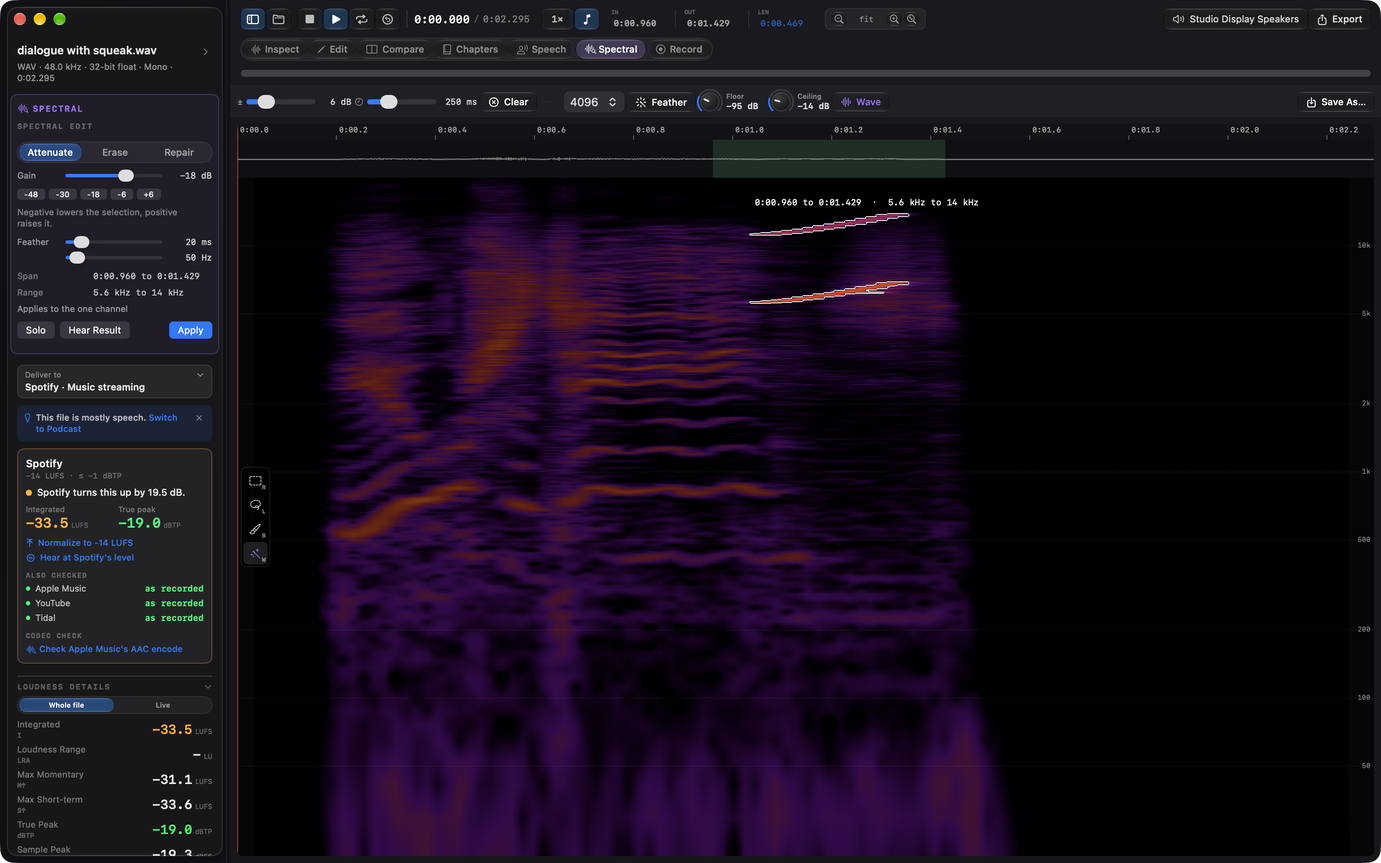
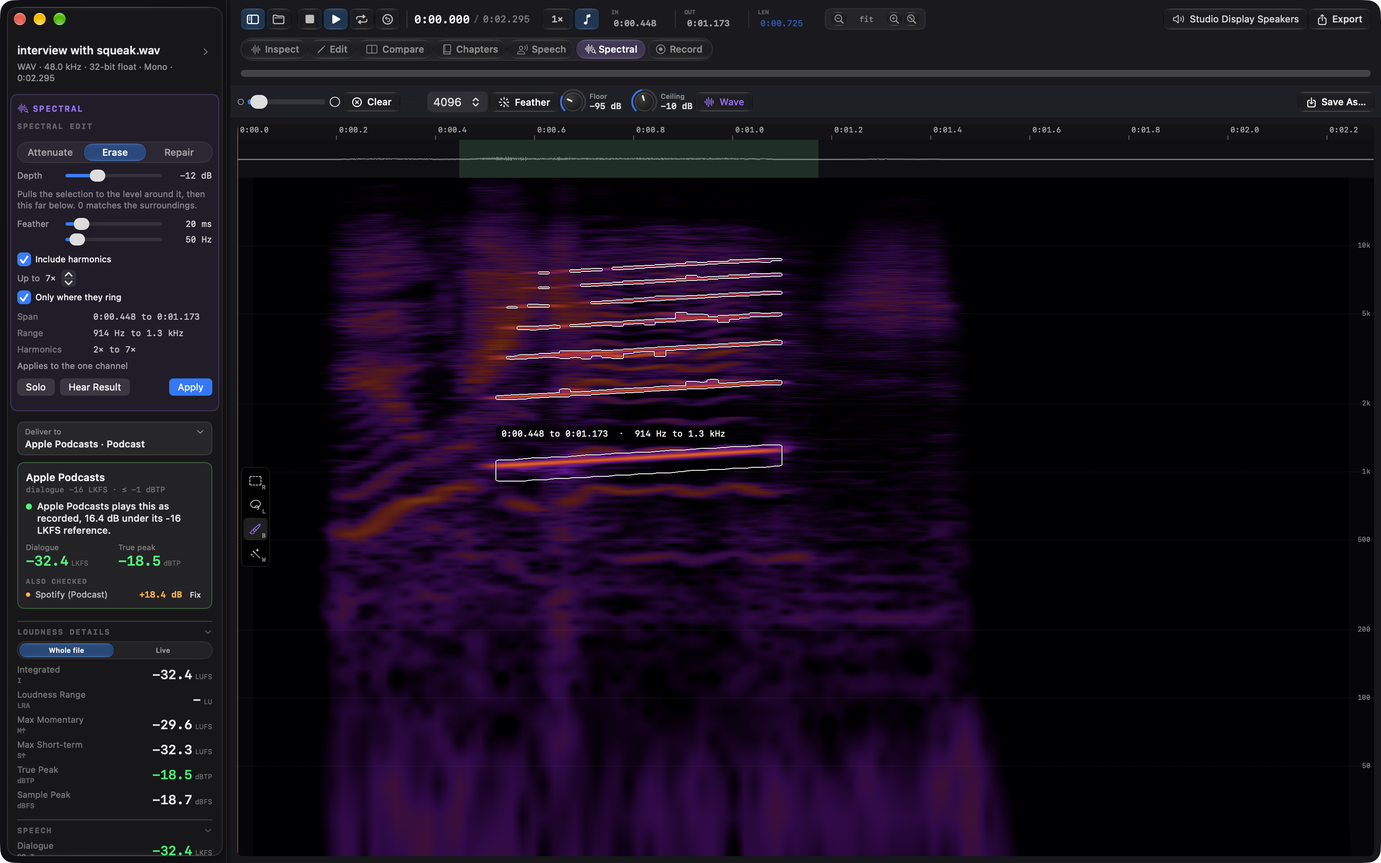
Specula 2.0: Include harmonics up front on the site
The repair page leads with it: a harmonics badge and hero line, a new
Include harmonics section under the hero shot, and a before and after
slider of an Erase with harmonics (specula-harmonics-before/after), which
replaces the old hand-drawn one (specula-repair-before/after removed, used
nowhere else). New captures, 2026-10-04, capture copy at Specula 84cc35b, a
1600 x 1000 window on factory settings with the spectrogram at -95 / -10 dB:
an interview with a chair squeak gliding from 1.05 to 1.25 kHz with its 2nd
to 7th harmonics (Specula tools/capture/scenarios/make_harmonic_squeak.py),
one brush stroke on its lowest line, Include harmonics, Up to 7x, Erase.
specula-spectral-task and specula-part-spectral refreshed (the panel now
shows Include harmonics); the product page's Spectral block, tile, spec row
and hero, the guide (two figures, from tools/mirror_guide.py), the FAQ, the
editing page, the home feed row and the 2.0 appcast draft mention it, and
the release notes list it second.

Claude-Session: https://claude.ai/code/session_0188d7MUJdfutGY8Bn3ca4tM

diff --git a/specula/repair.html b/specula/repair.html
@@ -3,16 +3,16 @@
 <head>
     <meta charset="UTF-8">
     <meta name="viewport" content="width=device-width, initial-scale=1.0">
-    <title>Specula for Spectral Repair: select the blemish on the spectrogram, macOS</title>
+    <title>Specula for Spectral Repair: select the blemish and its harmonics on the spectrogram, macOS</title>
     <link rel="canonical" href="https://headroomstudio.dev/specula/repair.html">
-    <meta name="description" content="Select a blemish on a full-resolution spectrogram with a rectangle, lasso, brush or wand, then attenuate, erase or repair just that region. Included in Specula's one-time purchase, no separate spectral-repair tier, no subscription.">
+    <meta name="description" content="Select a blemish on a full-resolution spectrogram with a rectangle, lasso, brush or wand, a squeak's or a whistle's harmonics included, then attenuate, erase or repair just that region. Included in Specula's one-time purchase, no separate spectral-repair tier, no subscription.">
     <meta property="og:title" content="Specula for Spectral Repair">
-    <meta property="og:description" content="Select the blemish on a spectrogram and attenuate, erase or repair it, leaving everything else bit for bit. Included in Specula's one-time purchase.">
+    <meta property="og:description" content="Select the blemish on a spectrogram, its harmonics included, and attenuate, erase or repair it, leaving everything else bit for bit. Included in Specula's one-time purchase.">
     <meta property="og:image" content="https://headroomstudio.dev/specula/og.png">
     <meta property="og:type" content="website">
     <meta name="twitter:card" content="summary_large_image">
     <meta name="twitter:title" content="Specula for Spectral Repair">
-    <meta name="twitter:description" content="Select a blemish on a spectrogram with a rectangle, lasso, brush or wand, then attenuate, erase or repair just that region. One-time purchase, no subscription.">
+    <meta name="twitter:description" content="Select a blemish on a spectrogram with a rectangle, lasso, brush or wand, its harmonics included, then attenuate, erase or repair just that region. One-time purchase, no subscription.">
     <meta name="twitter:image" content="https://headroomstudio.dev/specula/og.png">
     <link rel="icon" href="/favicon.ico" sizes="48x48">
     <link rel="icon" href="/headroom-mark.svg" type="image/svg+xml">
@@ -26,7 +26,7 @@
         "@context": "https://schema.org",
         "@type": "WebPage",
         "name": "Specula for Spectral Repair",
-        "description": "The Spectral task: select a blemish in time and frequency on a full-resolution, zoomable spectrogram with a rectangle, lasso, brush or wand, then attenuate, erase or repair just that selection. Every selected cell gets the full edit, the feather rolls off outside the selection, and everything else stays bit for bit. Spectral edits join the edit history.",
+        "description": "The Spectral task: select a blemish in time and frequency on a full-resolution, zoomable spectrogram with a rectangle, lasso, brush or wand, then attenuate, erase or repair just that selection. Include harmonics adds the overtones of a squeak, a whistle or hum to the selection, column by column, where they ring. Every selected cell gets the full edit, the feather rolls off outside the selection, and everything else stays bit for bit. Spectral edits join the edit history.",
         "url": "https://headroomstudio.dev/specula/repair.html",
         "isPartOf": { "@type": "WebSite", "name": "Headroom Studio", "url": "https://headroomstudio.dev/" },
         "about": {
@@ -70,11 +70,12 @@
             <p class="eyebrow">Workflow · Spectral repair</p>
             <h1 class="display">Take the cough out. Leave the chord.</h1>
             <p class="app-hero__desc">
-                A take is otherwise good except for one moment: a cough, a click, a chair squeak, a bite of hum. Re-recording is not always possible: a client session that is over, a location interview, an archival transfer with nothing left to record from. The Spectral task does that job, select the blemish on a spectrogram and fix just that, inside the analyzer that checks the numbers.
+                A take is otherwise good except for one moment: a cough, a click, a chair squeak, a bite of hum. Re-recording is not always possible: a client session that is over, a location interview, an archival transfer with nothing left to record from. The Spectral task does that job, select the blemish on a spectrogram and fix just that, inside the analyzer that checks the numbers, and Include harmonics adds a squeak's or a whistle's overtones to the selection.
             </p>
             <div class="app-hero__badges">
                 <span class="badge badge--macos">macOS</span>
                 <span class="badge">Spectral repair</span>
+                <span class="badge badge--accent">Include harmonics</span>
                 <span class="badge">Attenuate / Erase / Repair</span>
                 <span class="badge">Lasso · Brush · Wand</span>
                 <span class="badge">One-time purchase</span>
@@ -101,9 +102,41 @@
     <!-- Hero shot -->
     <section class="shots shots--tight">
         <figure class="shot">
-            <picture><source srcset="specula-spectral-task.webp" type="image/webp"><img src="specula-spectral-task.png" width="3200" height="2000" alt="Specula's Spectral task: a selection around a blemish with a white outline and the rest of the canvas dimmed, the tool palette on the canvas's left edge, the operation panel in the sidebar, and the Floor and Ceiling knobs in the task bar." loading="lazy" decoding="async"></picture>
-            <figcaption><strong>The Spectral task.</strong> Select the blemish on the spectrogram, then attenuate, erase or repair just that.</figcaption>
+            <picture><source srcset="specula-spectral-task.webp" type="image/webp"><img src="specula-spectral-task.png" width="3200" height="2000" alt="Specula's Spectral task on an interview with a chair squeak: a brush stroke along the squeak's lowest line with a white outline, its overtones outlined above it in parallel lines, the rest of the canvas dimmed, the tool palette on the canvas's left edge, and the Spectral edit panel in the sidebar with Include harmonics ticked and the harmonics found." loading="lazy" decoding="async"></picture>
+            <figcaption><strong>The Spectral task, with Include harmonics.</strong> One brush stroke on the squeak's lowest line; its overtones are outlined above it, found column by column as the squeak glides.</figcaption>
         </figure>
+    </section>
+
+    <!-- Include harmonics -->
+    <section class="section section--bordered" id="harmonics">
+        <div class="section__grid">
+            <p class="label">Include harmonics</p>
+            <div style="max-width: 640px;">
+                <p class="display" style="font-size: 1.45rem; font-weight: 650; color: var(--text); letter-spacing: -0.02em; line-height: 1.3;">
+                    A selection on a squeak's lowest line takes its overtones with it.
+                </p>
+                <p class="prose-lead" style="margin-top: 22px;">A chair squeak, a whistle, feedback or hum is a tone with overtones: the same sound again at two, three and four times its pitch, and on up the spectrum. A selection on the lowest line alone leaves the overtones in the file, and the squeak stays audible. <strong>Include harmonics</strong>, in the Spectral edit panel and the Spectral menu, adds the selection's tone at 2×, 3× and up, to 16× (8× to start). The canvas outlines the harmonics with the selection, the panel names the ones found, and Solo, Hear Result and Apply edit them.</p>
+                <p class="prose-lead" style="margin-top: 14px;">The harmonics are read one time column at a time, so a gliding squeak's overtones follow it. <strong>Only where they ring</strong>, on to start, takes a harmonic only where it stands 12 dB above the audio around it, and only as wide as it rings, so the voice between the overtones stays as it was. Turned off, each harmonic takes the selection's frequency band times its number.</p>
+            </div>
+        </div>
+    </section>
+
+    <!-- Before and after -->
+    <section class="section section--bordered">
+        <div class="section__grid">
+            <p class="label">Before and after</p>
+            <figure class="shot ba">
+                <div class="ba__frame">
+                    <picture><source srcset="specula-harmonics-before.webp" type="image/webp"><img src="specula-harmonics-before.png" width="1520" height="880" alt="The squeak under the interview selected on its lowest line, with its overtones outlined above it by Include harmonics, before Apply." loading="lazy" decoding="async"></picture>
+                    <div class="ba__after"><picture><source srcset="specula-harmonics-after.webp" type="image/webp"><img src="specula-harmonics-after.png" width="1520" height="880" alt="The same view after Erase, with the squeak and all its overtones gone and the voice around them unchanged." loading="lazy" decoding="async"></picture></div>
+                    <input class="ba__range" type="range" min="0" max="100" value="50" aria-label="Divider between before and after">
+                    <span class="ba__handle" aria-hidden="true"></span>
+                    <span class="ba__tag ba__tag--before" aria-hidden="true">Before</span>
+                    <span class="ba__tag ba__tag--after" aria-hidden="true">After</span>
+                </div>
+                <figcaption><strong>Erase, with Include harmonics.</strong> The squeak and its six overtones gone, the voice around them as it was. Drag the divider, or focus it and use the arrow keys.</figcaption>
+            </figure>
+        </div>
     </section>
 
     <!-- The problem -->
@@ -142,27 +175,9 @@
             </div>
             <div>
                 <div class="feature-row"><div class="feature-row__k">1 · Select the blemish</div><div class="feature-row__v"><kbd>⌘6</kbd>, or Spectral in the top bar, turns the canvas into a full-resolution, zoomable spectrogram of the open file, sharing the other views' zoom and scroll. Four tools sit in a palette on its left edge and share one selection: <strong>Rectangle</strong> (<kbd>R</kbd>) for a time and frequency box, whose outline shows the cells it will take while it is dragged; <strong>Lasso</strong> (<kbd>L</kbd>) for a free shape; <strong>Brush</strong> (<kbd>B</kbd>) for painting over a curved trace such as a bird chirp or a whistle; and <strong>Wand</strong> (<kbd>W</kbd>), which outlines, dashed, what a click would take: the connected region within its tolerance above or below the level under the pointer, reaching 250 ms each side by default. A drag with the rectangle or lasso, or a click with the wand, replaces the selection; Shift adds and Option subtracts. Brush strokes add, and an Option-stroke removes. The selection has a white outline, the rest of the canvas dims, the feather's roll-off shows as a soft edge around it, and its time span and frequency range print beside it; <kbd>Esc</kbd> clears it. The <strong>Floor</strong> and <strong>Ceiling</strong> knobs on the task bar (or Spectral › Contrast…) set the levels drawn black and brightest, to bring a faint blemish into view. For stereo files the canvas shows the left channel, the right or both stacked; multichannel files edit one channel at a time, picked by name from the file's layout, and the selection stays across channel switches.</div></div>
-                <div class="feature-row"><div class="feature-row__k">2 · Choose the operation</div><div class="feature-row__v">The operation panel in the sidebar holds the operation and its amount, the feather, the channels Apply edits, Solo, Hear Result and Apply. <strong>Attenuate</strong> lowers (or raises) the selection by a set amount, default −18 dB. <strong>Erase</strong> (Spectral › Erase to Floor, <kbd>⌫</kbd>) pushes it down to the noise floor learned from the audio just before and after it, less an erase depth (default 12 dB), so removal stays decisive inside busy material. <strong>Repair</strong> bridges it in time, interpolating each frequency's level from the clean audio on both sides, for a short blemish crossing steady material. Every selected cell gets the full edit, the feather's roll-off lies outside the selection, where the canvas draws it, and phase is never touched. Apply edits all channels by default, or the ones picked. The analysis size (1024 to 8192) trades time detail against frequency detail; changing it with a selection asks first.</div></div>
+                <div class="feature-row"><div class="feature-row__k">2 · Choose the operation</div><div class="feature-row__v">The operation panel in the sidebar holds the operation and its amount, the feather, Include harmonics, the channels Apply edits, Solo, Hear Result and Apply. <strong>Include harmonics</strong> adds the selection's tone at 2×, 3× and up, where it rings, so a squeak or a whistle goes with its overtones. <strong>Attenuate</strong> lowers (or raises) the selection by a set amount, default −18 dB. <strong>Erase</strong> (Spectral › Erase to Floor, <kbd>⌫</kbd>) pushes it down to the noise floor learned from the audio just before and after it, less an erase depth (default 12 dB), so removal stays decisive inside busy material. <strong>Repair</strong> bridges it in time, interpolating each frequency's level from the clean audio on both sides, for a short blemish crossing steady material. Every selected cell gets the full edit, the feather's roll-off lies outside the selection, where the canvas draws it, and phase is never touched. Apply edits all channels by default, or the ones picked. The analysis size (1024 to 8192) trades time detail against frequency detail; changing it with a selection asks first.</div></div>
                 <div class="feature-row"><div class="feature-row__k">3 · Audition, then apply</div><div class="feature-row__v">Space plays the selection's span. <strong>Solo</strong> (<kbd>⇧Space</kbd>) plays only the selection, with the feather the operation would use, so what an Erase or an Attenuate would touch is heard first. <strong>Hear Result</strong> (<kbd>⌥Space</kbd>) plays the chosen operation as Apply would write it. One thing plays at a time: Space stops an audition, and starting one pauses the file. Spectral edits join the Edit task's history, and the selection survives an Apply and an Undo, for another pass. Save As writes a new file; the task bar's Save writes over the original once that is allowed. Selections longer than 10 minutes are refused; select a shorter range and apply in passes. Full detail in the <a href="guide.html#spectral">Spectral guide</a>.</div></div>
             </div>
-        </div>
-    </section>
-
-    <!-- Before and after -->
-    <section class="section section--bordered">
-        <div class="section__grid">
-            <p class="label">Before and after</p>
-            <figure class="shot ba">
-                <div class="ba__frame">
-                    <picture><source srcset="specula-repair-before.webp" type="image/webp"><img src="specula-repair-before.png" width="1520" height="880" alt="The spectrogram with the blemish selected, before Apply." loading="lazy" decoding="async"></picture>
-                    <div class="ba__after"><picture><source srcset="specula-repair-after.webp" type="image/webp"><img src="specula-repair-after.png" width="1520" height="880" alt="The same view after Apply, with the blemish gone and the audio around it unchanged." loading="lazy" decoding="async"></picture></div>
-                    <input class="ba__range" type="range" min="0" max="100" value="50" aria-label="Divider between before and after">
-                    <span class="ba__handle" aria-hidden="true"></span>
-                    <span class="ba__tag ba__tag--before" aria-hidden="true">Before</span>
-                    <span class="ba__tag ba__tag--after" aria-hidden="true">After</span>
-                </div>
-                <figcaption><strong>Before and after Apply.</strong> Drag the divider, or focus it and use the arrow keys.</figcaption>
-            </figure>
         </div>
     </section>
 
@@ -176,8 +191,8 @@
                     <figcaption><strong>The wand.</strong> Pointing outlines what a click would take; a click takes the connected region at the clicked level.</figcaption>
                 </figure>
                 <figure class="shot">
-                    <picture><source srcset="specula-part-spectral.webp" type="image/webp"><img src="specula-part-spectral.png" width="496" height="572" alt="The operation panel in the sidebar: Attenuate at −18 dB, the feather, the channels, Solo, Hear Result and Apply." loading="lazy" decoding="async"></picture>
-                    <figcaption><strong>The operation panel.</strong> Attenuate, Erase or Repair with its amount, the feather and the channels, and Solo and Hear Result before Apply.</figcaption>
+                    <picture><source srcset="specula-part-spectral.webp" type="image/webp"><img src="specula-part-spectral.png" width="496" height="740" alt="The Spectral edit panel in the sidebar: Erase with its depth, the feather, Include harmonics ticked with Up to 7× and Only where they ring, the span, range and harmonics found, Solo, Hear Result and Apply." loading="lazy" decoding="async"></picture>
+                    <figcaption><strong>The operation panel.</strong> Attenuate, Erase or Repair with its amount, the feather, Include harmonics and the channels, and Solo and Hear Result before Apply.</figcaption>
                 </figure>
             </div>
         </div>
@@ -189,6 +204,7 @@
             <p class="label">FAQ</p>
             <div>
                 <div class="feature-row"><div class="feature-row__k">Is the Spectral task an automatic cleanup tool?</div><div class="feature-row__v">No. The Spectral task is manual spectral editing: the problem shows on the spectrogram, a rectangle, lasso, brush or wand selects it, and one of three operations, Attenuate, Erase or Repair, applies to the selection. There is no automatic de-noise, de-hum or de-reverb pass at this time. The fix lands exactly where it is pointed, and nothing else changes.</div></div>
+                <div class="feature-row"><div class="feature-row__k">Can it take a squeak's overtones out too?</div><div class="feature-row__v">Yes. Include harmonics, in the Spectral edit panel, adds the overtones of a squeak, a whistle or hum to a selection drawn on its lowest line, from 2× up to 16×, where they ring. The canvas outlines them before Apply.</div></div>
                 <div class="feature-row"><div class="feature-row__k">Do I need a subscription to use spectral repair?</div><div class="feature-row__v">No. Specula is a one-time purchase, and the Spectral task is part of the $99.99 price, not a separate add-on or a higher tier. There is no recurring fee to keep using it.</div></div>
                 <div class="feature-row"><div class="feature-row__k">How does it compare to the dedicated spectral repair tools?</div><div class="feature-row__v">The Spectral task does the core job of a spectral editor: select a region on the spectrogram, then attenuate, erase or repair only that, with Solo and Hear Result before Apply. It sits beside the delivery checks, loudness, FFT, compare, edit and record, for $99.99 one time. Restoration suites carry more repair modules; the choice follows which tools the job needs.</div></div>
             </div>

diff --git a/specula/releases.html b/specula/releases.html
@@ -76,13 +76,14 @@
     <p class="prenote"><strong>A free update for every Specula 1.x license.</strong> 2.0 organizes the window around seven tasks and Deliver to. Where 1.4's Mode, Dialogue mode, Chapter mode and their settings went is listed in the user guide's <a href="guide.html#coming-from-1-4">Coming from 1.4</a>.</p>
     <ul class="changes">
       <li><span class="tag tag-new">New</span><span><strong>One window, seven tasks.</strong> The window is organized around seven tasks: Inspect, Edit, Compare, Chapters, Speech, Spectral and Record, chosen in the top bar or with ⌘1 to ⌘7. Each task brings its own bar of tools, its own views and its own part of the sidebar, and its shortcut, or Esc with nothing selected, returns to Inspect. The Speech task replaces Dialogue mode, the Chapters task replaces Chapter mode, and Deliver to replaces the Mode.</span></li>
+      <li><span class="tag tag-new">New</span><span><strong>Include harmonics in Spectral.</strong> A switch in the Spectral edit panel and the Spectral menu adds the selection's tone at 2×, 3× and up, to 16× (8× to start), to what Apply, Solo and Hear Result edit: a squeak, a whistle, feedback or hum with its overtones. Each time column is read on its own, so the harmonics of a gliding pitch follow it. Only where they ring, on to start, takes a harmonic only where its peak stands 12 dB above the audio around it, and only as wide as it rings; off, each harmonic takes the selection's band times its number. The canvas outlines the harmonics with the selection, and the panel names the ones found.</span></li>
       <li><span class="tag tag-new">New</span><span><strong>The top bar.</strong> One bar holds the sidebar toggle, Open, the transport (Stop, Play, Loop, Hold play start, and Record in the Record task), the playhead time with the bar and beat, the playback speed and pitch, IN, OUT and LEN with Clear and Analyse, the time zoom and snap, the tasks, the task's views with Maximize, the output device and Export. In a narrower window its groups wrap onto a second row, the transport staying on the first. The seek bar runs under it.</span></li>
       <li><span class="tag tag-new">New</span><span><strong>Views for each task.</strong> Inspect opens on the waveform, loudness and spectrogram, Edit and Speech on the waveform and loudness, Chapters on the chapter map over the chapter table, Compare on the metrics matrix over the waveform, Spectral on its canvas and Record on its meters and the last take. The view buttons in the top bar and ⌃1 to ⌃7 show and hide views, and each task remembers its own; Maximize, or ⌃⌥1 to ⌃⌥7, lets one view fill the canvas until it is restored. A drag on the line between two views shares out their space, and a double-click resets it. Zoom and scroll stay when the task changes.</span></li>
       <li><span class="tag tag-new">New</span><span><strong>Edit.</strong> The Edit task's bar holds Cut, Trim, Fade In, Fade Out and Gain, a Loudness menu (Normalize, Limit True Peak, Level Dialogue), a More menu (Silence, Invert Phase, Remove DC Offset, Swap Left and Right, Split to Mono Files), the Plugins drawer, Save and Save As. A selection shows its length over the waveform with the common edits beside it. The sidebar's History lists every edit by name, up to 16 steps back; a click on a step goes back or forward to it in one move, and the step that matches the file on disk says On disk.</span></li>
       <li><span class="tag tag-new">New</span><span><strong>Compare.</strong> The Compare task shows every slot's readings in a matrix over the waveform, each with its difference from A, a Residual row and a Listen button per slot (1 to 6). Its bar holds the slot chips, dragged to reorder, with a menu to make a slot the reference, move it or remove it, then Add, Align, Match, Ghost, Residual and Export Residual. The sidebar's slot card holds the slot's offset with nudges and Align, its level match, its trim and its polarity. Moving a file into slot A rebases every alignment onto it.</span></li>
       <li><span class="tag tag-new">New</span><span><strong>Chapters.</strong> The Chapters task's bar holds Detect, From Music, Add, Remove, Analyse, the detection settings, Recall, Import, Export, Export CSV and Save. The chapter table lists every chapter's readings, with ACX's marks under Audiobook and Podcast, and the sidebar holds an ACX summary and Level chapters with each chapter's gain before Apply. Opened on a file without chapters, Chapters detects and measures them, or offers the chapters saved in an earlier session, or a song's sections.</span></li>
       <li><span class="tag tag-new">New</span><span><strong>Speech.</strong> The Speech task's bar holds Add, In, Out, Split, Delete, Reset to Detected, the detection settings (moved from Settings), Export and Import of the regions, and Save. The sidebar's Level dialogue panel shows the dialogue loudness and noise floor now, a prediction of both after leveling, and the floor against ACX. Undo and Redo in Speech step through its region edits and Level Dialogue's Apply, newest first. A detection setting never replaces corrected or imported regions, and Detect Again asks first.</span></li>
-      <li><span class="tag tag-new">New</span><span><strong>Spectral.</strong> The tools sit in a column on the canvas's left edge (Rectangle R, Lasso L, Brush B, Wand W), the operation is a panel in the sidebar (Attenuate, Erase or Repair with its amount, the feather, the channels it edits, Solo, Hear Result and Apply), and the task bar holds the tool's options, Clear, the analysis size, the spectrogram's Floor and Ceiling knobs, the channels shown and Save. Hear Result plays the chosen operation as Apply would write it.</span></li>
+      <li><span class="tag tag-new">New</span><span><strong>Spectral.</strong> The tools sit in a column on the canvas's left edge (Rectangle R, Lasso L, Brush B, Wand W), the operation is a panel in the sidebar (Attenuate, Erase or Repair with its amount, the feather, Include harmonics, the channels it edits, Solo, Hear Result and Apply), and the task bar holds the tool's options, Clear, the analysis size, the spectrogram's Floor and Ceiling knobs, the channels shown and Save. Hear Result plays the chosen operation as Apply would write it.</span></li>
       <li><span class="tag tag-new">New</span><span><strong>Record.</strong> The Record task's canvas shows each input channel's level and peak, the momentary loudness and the true peak, and while armed, a room check: the room's floor, measured as the file's noise floor will be, against ACX's limit. The sidebar holds the input (device, layout and source channels), the room check, and the takes of the last seven days with To Compare, Save As and Move to Trash. The bar chooses where a take goes: a new file, Append, Insert at the playhead or Punch in.</span></li>
       <li><span class="tag tag-new">New</span><span><strong>The empty window.</strong> With no file open, the window offers Open, Generate, Record and Check a Folder, and lists the ten most recent files with their length, format and the delivery category they were last judged against. When no delivery category was ever chosen, it asks once where audio usually goes, which sets Deliver to.</span></li>
       <li><span class="tag tag-new">New</span><span><strong>A drag selects.</strong> In every lane a click places the playhead and a drag selects, and a ⌃-drag moves the playhead. Settings › General › Pointer offers 1.4's way instead: a drag moves the playhead and a ⌘-drag selects. A pinch zooms time, a sideways swipe pans, a vertical scroll zooms and Shift pans, and every lane zooms to the same depth.</span></li>
@@ -122,7 +123,6 @@
       <li><span class="tag tag-new">New</span><span><strong>Contrast in Spectral.</strong> Spectral › Contrast… and the Contrast button in the task bar set the level the canvas draws black and the level it draws brightest, so a faint blemish can be brought into view. The spectrogram section uses the same range.</span></li>
       <li><span class="tag tag-new">New</span><span><strong>HDR accents.</strong> On macOS 26 and later, on a display that shows HDR, a few things light brighter than white: the playback point on the seek bar while playing, the record light while a take rolls, a clip or an over on the meters, the brightest spots of the live phase scope and the outline of a Spectral selection. They light only while Specula is the app in front, and on a display such as Studio Display only below full brightness. Otherwise they keep their usual colours.</span></li>
       <li><span class="tag tag-new">New</span><span><strong>Spectral's rectangle and brush.</strong> The rectangle's outline shows the cells it will take while it is dragged, which at the bottom of the frequency axis can be taller than the drag. The brush's radius starts at 12 points, where it was 40.</span></li>
-      <li><span class="tag tag-new">New</span><span><strong>Include harmonics in Spectral.</strong> A switch in the Spectral edit panel adds the selection's tone at 2×, 3× and up, to 16× (8× to start), to what Apply, Solo and Hear Result edit: a squeak, a whistle, feedback or hum with its overtones. Each time column is read on its own, so the harmonics of a gliding pitch follow it. Only where they ring, on to start, takes a harmonic only where its peak stands 12 dB above the audio around it, and only as wide as it rings; off, each harmonic takes the selection's band times its number. The canvas outlines the harmonics with the selection, and the panel names the ones found.</span></li>
       <li><span class="tag tag-new">New</span><span><strong>A chapter click selects the chapter.</strong> Clicking a chapter in the chapter map makes its time range the selection, in every task that shows the map, as a row of the Chapters table does. Space then plays that chapter.</span></li>
       <li><span class="tag tag-new">New</span><span><strong>Fit for the amplitude zoom.</strong> The amplitude zoom under the waveform has the time zoom's buttons: zoom out, zoom in and fit, which sizes the loudest peak of the unmuted channels to the lane. Double-clicking its readout returns it to full scale, and Option-scroll zooms it smoothly.</span></li>
       <li><span class="tag tag-new">New</span><span><strong>The ruler names its unit.</strong> The label at the end of the ruler shows the unit the ruler is in (Time, Samples or Bars) and opens a menu of the three, the current one checked; in 1.4 it named the unit a click would switch to. Bars stay in the list, greyed out, until the music analysis has found a beat grid. View › Ruler Unit holds the same three.</span></li>

diff --git a/specula/index.html b/specula/index.html
@@ -66,7 +66,7 @@
             <p class="eyebrow">Version 2.0</p>
             <h1 class="display">Specula</h1>
             <p class="app-hero__desc">
-                Audio analysis and repair for macOS. Specula judges a file against where it is going: Spotify, Apple Podcasts, ACX, Netflix, EBU R128 or a spec of your own, with the verdict in a sentence and the fix that would change it. Seven tasks cover the rest of the work: inspect the file, edit it, compare up to six versions down to the residual, check audiobook chapters, correct speech regions, repair in the spectrogram, and record.
+                Audio analysis and repair for macOS. Specula judges a file against where it is going: Spotify, Apple Podcasts, ACX, Netflix, EBU R128 or a spec of your own, with the verdict in a sentence and the fix that would change it. Seven tasks cover the rest of the work: inspect the file, edit it, compare up to six versions down to the residual, check audiobook chapters, correct speech regions, repair in the spectrogram with a squeak's overtones included, and record.
             </p>
             <div class="app-hero__badges">
                 <span class="badge badge--macos">macOS</span>
@@ -76,6 +76,7 @@
                 <span class="badge">ACX chapters</span>
                 <span class="badge">Six-version compare</span>
                 <span class="badge">Spectral repair</span>
+                <span class="badge badge--accent">Include harmonics</span>
                 <span class="badge">Check a Folder</span>
                 <span class="badge">Audio Unit plugins</span>
             </div>
@@ -269,13 +270,13 @@
             <div class="section__grid">
                 <div><h3 class="taskblock__name">Spectral</h3><p class="taskblock__key"><kbd>⌘6</kbd></p></div>
                 <div style="max-width: 640px;">
-                    <p class="prose-lead">The spectrogram at full resolution, with a rectangle, lasso, brush or wand to select a cough, a squeak or a hum. Attenuate it, erase it to the noise floor around it, or repair it from the audio either side; Solo plays the selection and Hear Result plays the edit before Apply. Audio beyond the selection and its feather stays bit for bit.</p>
+                    <p class="prose-lead">The spectrogram at full resolution, with a rectangle, lasso, brush or wand to select a cough, a squeak or a hum. <strong>Include harmonics</strong> adds the selection's tone at 2×, 3× and up, where it rings, so one stroke on a squeak's lowest line takes its overtones too, following the squeak as it glides. Attenuate it, erase it to the noise floor around it, or repair it from the audio either side; Solo plays the selection and Hear Result plays the edit before Apply. Audio beyond the selection and its feather stays bit for bit.</p>
                     <p class="taskblock__links"><a href="repair.html">Spectral repair →</a></p>
                 </div>
             </div>
             <figure class="shot">
-                <picture><source srcset="specula-spectral-task.webp" type="image/webp"><img src="specula-spectral-task.png" width="3200" height="2000" alt="The Spectral task: a wand selection outlined on the spectrogram with its feather, the tool column on the left edge, and the operation panel in the sidebar." loading="lazy" decoding="async"></picture>
-                <figcaption><strong>Spectral.</strong> A wand selection with its feather, and the operation waiting in the sidebar.</figcaption>
+                <picture><source srcset="specula-spectral-task.webp" type="image/webp"><img src="specula-spectral-task.png" width="3200" height="2000" alt="The Spectral task on an interview with a chair squeak: a brush stroke along the squeak's lowest line, its overtones from 2× to 7× outlined above it, the tool column on the left edge, and the Spectral edit panel in the sidebar with Include harmonics ticked." loading="lazy" decoding="async"></picture>
+                <figcaption><strong>Spectral, with Include harmonics.</strong> One stroke on a squeak's lowest line, and its overtones from 2× to 7× outlined above it, ready for Erase.</figcaption>
             </figure>
         </article>
 
@@ -510,7 +511,7 @@
             </a>
             <a class="tile" href="repair.html">
                 <div class="tile__glyph">〰</div><h4>Spectral repair</h4>
-                <p>Rectangle, lasso, brush or wand around the blemish, then attenuate, erase or repair just that.</p><p class="tile__tasks">Spectral</p><span class="tile__arrow">→</span>
+                <p>Rectangle, lasso, brush or wand around the blemish, a squeak's overtones included, then attenuate, erase or repair just that.</p><p class="tile__tasks">Spectral</p><span class="tile__arrow">→</span>
             </a>
             <a class="tile" href="songs.html">
                 <div class="tile__glyph">♪</div><h4>Songs</h4>
@@ -552,7 +553,7 @@
                 <div class="spec"><p class="spec__k">Selection analysis</p><p class="spec__v">⌘Return measures any selection into its own card.</p></div>
                 <div class="spec"><p class="spec__k">Check a Folder</p><p class="spec__v">A folder against Deliver to, with a report per file and a CSV.</p></div>
                 <div class="spec"><p class="spec__k">Plugin chain</p><p class="spec__v">Audio Unit effects in Edit, rendered as one undoable edit.</p></div>
-                <div class="spec"><p class="spec__k">Spectral editing</p><p class="spec__v">Select in time and frequency; attenuate, erase or repair.</p></div>
+                <div class="spec"><p class="spec__k">Spectral editing</p><p class="spec__v">Select in time and frequency, harmonics included; attenuate, erase or repair.</p></div>
                 <div class="spec"><p class="spec__k">Recording</p><p class="spec__v">New file, append, insert or punch, with a room check.</p></div>
                 <div class="spec"><p class="spec__k">Signal generator</p><p class="spec__v">Tones, noise, impulses and sweeps, stacked per channel.</p></div>
                 <div class="spec"><p class="spec__k">Channel routing</p><p class="spec__v">N to M output matrix, mixdown presets, render to file.</p></div>

diff --git a/specula/guide.html b/specula/guide.html
@@ -1844,8 +1844,8 @@
         <p class="prose"><kbd>⌘6</kbd>, or the Spectral button. Spectral turns the canvas into a zoomable, full-resolution spectrogram of the file, where you select regions in time and frequency and process only those: a cough inside a piano chord, a chair squeak under speech, a bite of mains hum. It works on any channel count, and its edits share the edit history and the Save commands with Edit.</p>
         <h3 id="spectral-the-canvas">The canvas</h3>
         <figure class="shot">
-            <picture><source srcset="specula-spectral-task.webp" type="image/webp"><img src="specula-spectral-task.png" width="3200" height="2000" alt="The Spectral task: a wand selection outlined with its feather, the tool palette on the canvas, and the operation panel in the inspector." loading="lazy" decoding="async"></picture>
-            <figcaption><strong>Spectral.</strong> The selection, its feather, and the operation before Apply.</figcaption>
+            <picture><source srcset="specula-spectral-task.webp" type="image/webp"><img src="specula-spectral-task.png" width="3200" height="2000" alt="The Spectral task on an interview with a chair squeak: a brush stroke along the squeak's lowest line, its overtones from 2× to 7× outlined above it by Include harmonics, the tool palette on the canvas, and the Spectral edit panel in the inspector." loading="lazy" decoding="async"></picture>
+            <figcaption><strong>Spectral, with Include harmonics.</strong> A stroke on the squeak's lowest line, and its overtones outlined above it.</figcaption>
         </figure>
         <ul>
         <li>A time ruler along the top (click or drag it to place the playhead), a frequency scale on the right of each channel row, and the readout under the pointer: time, frequency and level.</li>
@@ -1880,6 +1880,10 @@
         <li><strong>Hear Result</strong> (⌥Space) plays the span as Apply would leave it, with the chosen operation.</li>
         <li><strong>Apply</strong> writes the operation as one edit. The selection stays, so you can listen and apply again; Undo brings the audio back.</li>
         </ul>
+        <figure class="shot shot--narrow">
+            <picture><source srcset="specula-part-spectral.webp" type="image/webp"><img src="specula-part-spectral.png" width="496" height="740" alt="The Spectral edit panel: Erase with its depth, the feather, Include harmonics ticked with Up to 7× and Only where they ring, the span, range and harmonics found, Solo, Hear Result and Apply." loading="lazy" decoding="async"></picture>
+            <figcaption><strong>The Spectral edit panel.</strong> The operation, the feather and Include harmonics, with the harmonics found.</figcaption>
+        </figure>
         <p class="prose">The operations change the level of the frequency bins inside the selection and leave their phase alone. Selections longer than 10 minutes are refused; select a shorter range and work in passes.</p>
         <p class="prose"><strong>Playback in Spectral.</strong> With a selection, Space plays its time span. Placing the playhead by hand (the ruler, the waveform strip, the arrow keys, Go to Start) makes Space play from the playhead until the selection changes. One thing plays at a time: starting Solo or Hear Result pauses the file; Space stops an audition and starts nothing; Play and Stop end it too. While an audition plays, the Play button shows pause.</p>
         <p class="prose">The <strong>Spectral</strong> menu holds the four tools, Bigger Brush and Smaller Brush, Reset Zoom, Fit Time to Window, Reset Frequency Zoom, Clear Selection, Include Harmonics, <strong>Attenuate</strong>, which applies the panel's gain and names it (<em>Attenuate (-18 dB)</em>), Erase to Floor (⌫), Repair, Play Selection Only, Hear the Result, Feather…, Contrast… and Show Waveform Strip. Erase to Floor and Repair also set the panel's operation.</p>

diff --git a/specula/editing.html b/specula/editing.html
@@ -206,7 +206,7 @@
         <div class="section__grid">
             <p class="label">Blemishes come out on the spectrogram</p>
             <div style="max-width: 640px;">
-                <p class="prose-lead"><strong>Spectral</strong> (<kbd>⌘6</kbd>) is for the blemish inside the audio worth keeping: a cough inside a piano chord, a chair squeak under speech, a bite of mains hum. Select it on a full-resolution, zoomable spectrogram, in time and frequency, then attenuate, erase or repair just that region, leaving the rest bit for bit. It is a bigger job than the trims and fades on this page, so it has its own workflow: the selection tools, the wand's tolerance and reach, the feather, and auditions before Apply.</p>
+                <p class="prose-lead"><strong>Spectral</strong> (<kbd>⌘6</kbd>) is for the blemish inside the audio worth keeping: a cough inside a piano chord, a chair squeak under speech, a bite of mains hum. Select it on a full-resolution, zoomable spectrogram, in time and frequency, then attenuate, erase or repair just that region, leaving the rest bit for bit. Include harmonics adds the overtones of a squeak or a whistle to the selection. It is a bigger job than the trims and fades on this page, so it has its own workflow: the selection tools, the wand's tolerance and reach, the feather, Include harmonics, and auditions before Apply.</p>
                 <div class="app-hero__cta" style="margin-top: 20px;">
                     <a href="repair.html" class="btn btn-primary">See the spectral repair workflow →</a>
                 </div>

diff --git a/specula/faq.html b/specula/faq.html
@@ -128,7 +128,7 @@
 
         <div class="faq-item" id="spectral">
             <div class="faq-item__q"><h3 class="faq-q">Can Specula remove a cough or a chair squeak from a recording?</h3></div>
-            <div class="faq-a"><p>Yes, in the Spectral task (<kbd>⌘6</kbd>): draw around the blemish on the zoomable spectrogram with the rectangle, lasso, brush or wand, then <strong>Attenuate</strong>, <strong>Erase</strong> or <strong>Repair</strong> it. Space, <kbd>⇧Space</kbd> and <kbd>⌥Space</kbd> audition the span, the selection alone and the result before Apply, and everything outside the selection stays bit for bit. See the <a href="repair.html">spectral repair workflow</a>.</p></div>
+            <div class="faq-a"><p>Yes, in the Spectral task (<kbd>⌘6</kbd>): draw around the blemish on the zoomable spectrogram with the rectangle, lasso, brush or wand, then <strong>Attenuate</strong>, <strong>Erase</strong> or <strong>Repair</strong> it. <strong>Include harmonics</strong> adds a squeak's overtones to the selection, where they ring. Space, <kbd>⇧Space</kbd> and <kbd>⌥Space</kbd> audition the span, the selection alone and the result before Apply, and everything outside the selection stays bit for bit. See the <a href="repair.html">spectral repair workflow</a>.</p></div>
         </div>
 
         <div class="faq-item" id="save-over">

diff --git a/index.html b/index.html
@@ -195,7 +195,7 @@
         <div>
           <div style="display:flex;align-items:center;gap:8px;flex-wrap:wrap;"><span class="feed-row__kicker feed-row__kicker--release">Released &middot; Specula v2.0</span></div>
           <p class="feed-row__title">Specula 2.0</p>
-          <p class="feed-row__summary">One window organized around seven tasks, and Deliver to, which judges each file against its delivery category and primary target. New: Check a Folder, the Apple Music encode check, a mono check and an edit history. A free update for every 1.x license.</p>
+          <p class="feed-row__summary">One window organized around seven tasks, and Deliver to, which judges each file against its delivery category and primary target. New: Check a Folder, Include harmonics in Spectral, the Apple Music encode check, a mono check and an edit history. A free update for every 1.x license.</p>
           <p class="feed-row__cta">Read release notes &rarr;</p>
         </div>
         <div class="feed-row__meta"><span class="feed-row__ago">new</span><p class="feed-row__date">3 Oct 2026</p></div>
